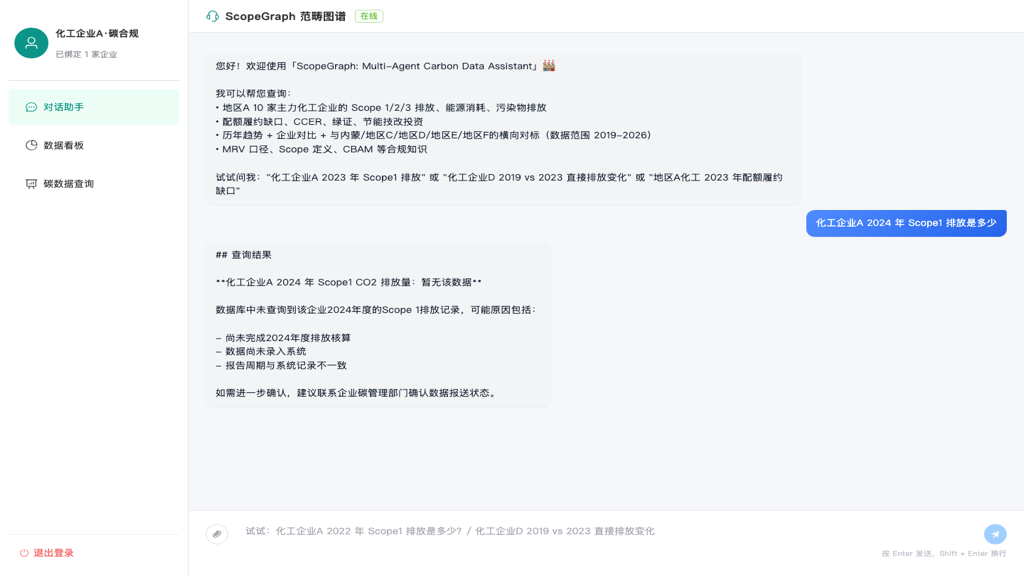
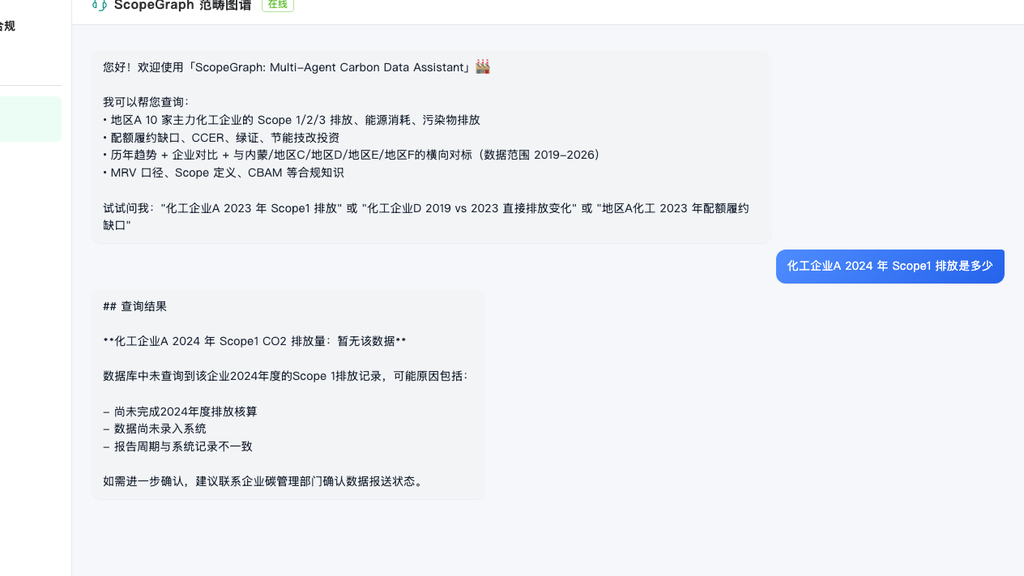
tighten ScopeGraph card screenshot crop

diff --git a/_portfolio/02-co2-copilot.md b/_portfolio/02-co2-copilot.md
@@ -1,6 +1,6 @@
 ---
 title: "ScopeGraph · Multi-Agent GraphRAG Carbon Assistant"
-excerpt: "A LangGraph supervisor over 5 sub-agents on a Neo4j carbon knowledge graph. Hybrid Text2Cypher + vector retrieval, 3-layer per-tenant data isolation (JWT → state → Cypher whitelist), LLM-as-Judge grounding check, SSE streaming.<br/><img src='/images/proj-co2copilot.png?v=6' style='max-width:520px'>"
+excerpt: "A LangGraph supervisor over 5 sub-agents on a Neo4j carbon knowledge graph. Hybrid Text2Cypher + vector retrieval, 3-layer per-tenant data isolation (JWT → state → Cypher whitelist), LLM-as-Judge grounding check, SSE streaming.<br/><img src='/images/proj-co2copilot.png?v=7' style='max-width:520px'>"
 collection: portfolio
 date: 2024-09-01
 permalink: /portfolio/scopegraph/